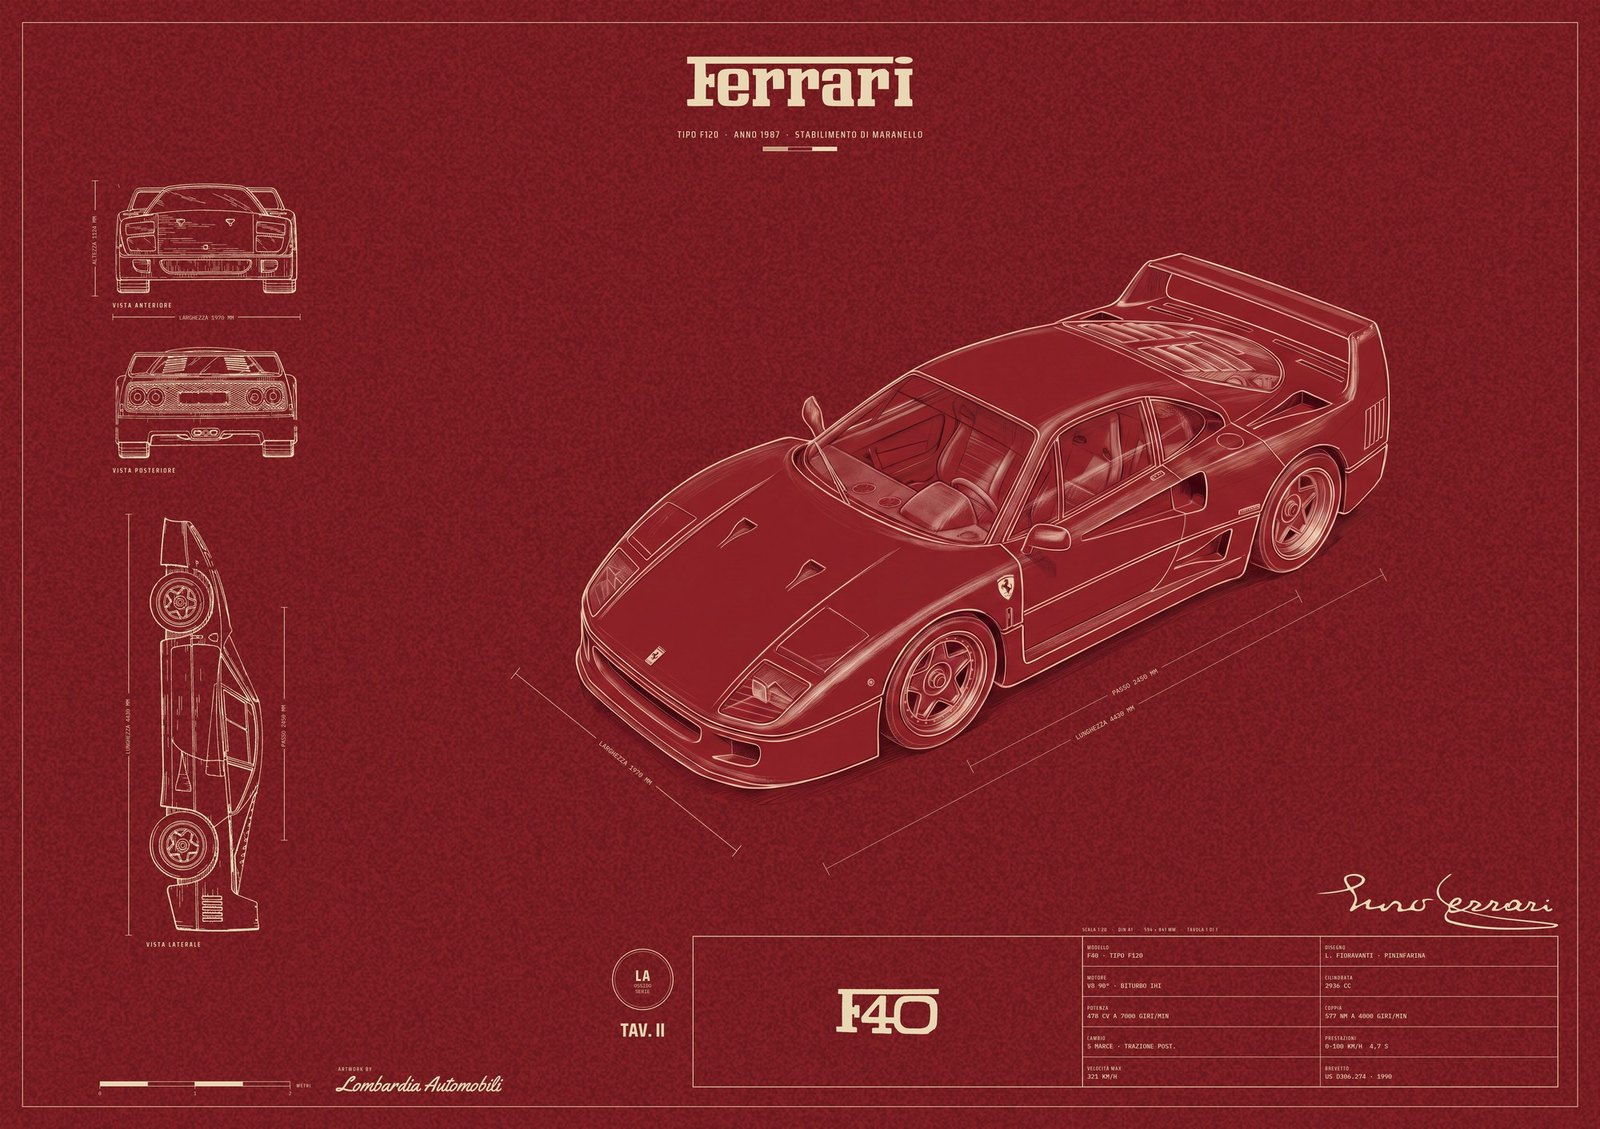
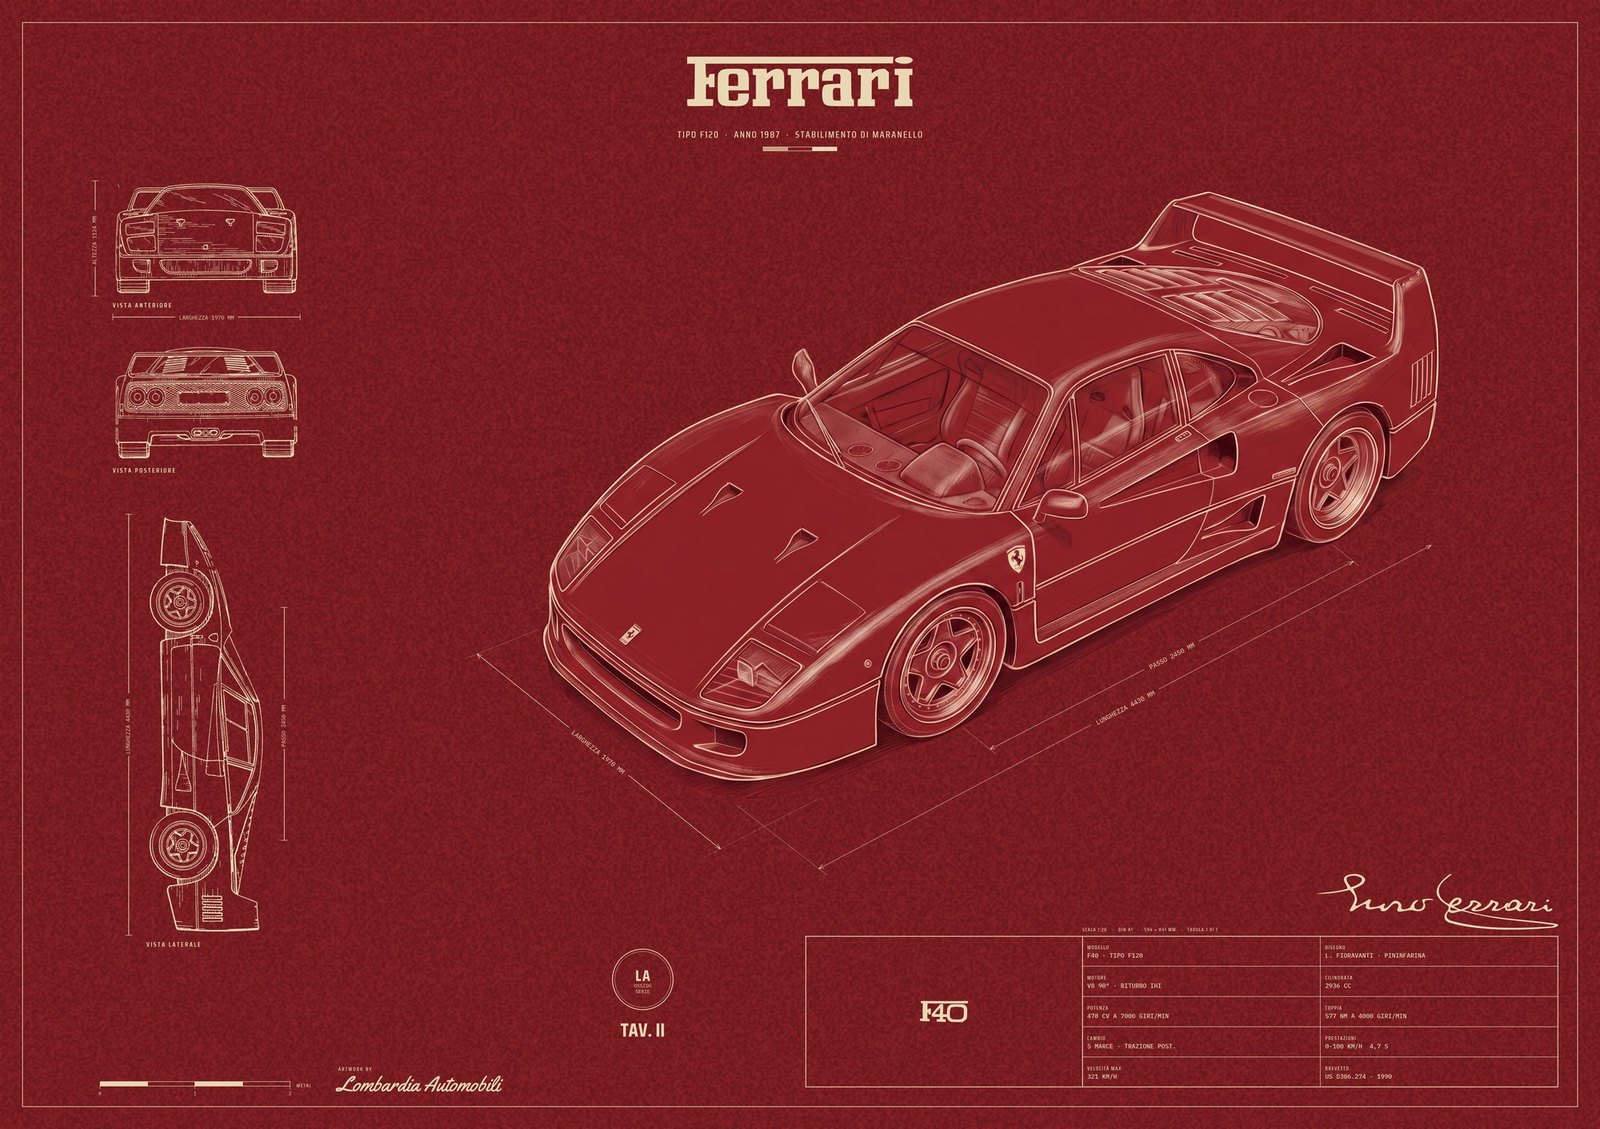
Publish the lot board

Changed region(s): [[0.3438, 0.155, 0.9062, 0.713], [0.5, 0.868, 0.5938, 0.93], [0.625, 0.651, 0.6562, 0.682]]

diff --git a/house/index.html b/house/index.html
@@ -20,7 +20,7 @@ a{color:#ffd28a}
 
 <h2 id="poster">The poster</h2>
 <p>Tap a sheet for the full 9933 x 7016 file. Only the car is generated; every line, figure, letter and rule is drawn. Checks under each sheet are measured, not eyeballed.</p>
-<figure><a href="img/f40-ossido-landscape-A1.jpg?v=1788458884"><img src="img/f40-ossido-landscape.jpg?v=1788458884" alt="f40-ossido-landscape"></a><figcaption>THE SHEET · Round 5 B (nano-banana-2-edit, 8 references): car regenerated alone on the ground, drawn apparatus; Ferrari wordmark centred, F40 lettering in the spec box, TAV and LA above it · <a href="img/f40-ossido-landscape-A1.jpg?v=1788458884">full A1 file</a></figcaption><table class="chk"><tr><td>size</td><td>9933 x 7016</td><td class="ok">pass</td></tr><tr><td>ratio</td><td>1.4158</td><td class="ok">pass</td></tr><tr><td>edge white % (t/b/l/r)</td><td>0.0 / 0.0 / 0.0 / 0.0</td><td class="ok">pass</td></tr><tr><td>edge mean rgb (top)</td><td>[120, 28, 33]</td><td class="ok">pass</td></tr><tr><td>car box vs source, % of sheet</td><td>x0 0.0 · y0 0.16 · x1 0.0 · y1 -0.17 · IoU 0.9934</td><td class="ok">pass</td></tr><tr><td>ground sampled from render</td><td>[139, 33, 39]</td><td class="ok">pass</td></tr><tr><td>library used</td><td>{&quot;wordmark&quot;: &quot;ferrari-wordmark-mask-4k.png&quot;, &quot;model_asset&quot;: &quot;f40-model-mask.png&quot;, &quot;model_h&quot;: &quot;253&quot;, &quot;_library_entry&quot;: &quot;Ferrari&quot;}</td><td class="ok">pass</td></tr></table></figure>
+<figure><a href="img/f40-ossido-landscape-A1.jpg?v=1788459533"><img src="img/f40-ossido-landscape.jpg?v=1788459533" alt="f40-ossido-landscape"></a><figcaption>THE SHEET · Round 5 B (nano-banana-2-edit, 8 references): car regenerated alone on the ground, drawn apparatus; Ferrari wordmark centred, F40 lettering in the spec box, TAV and LA above it · <a href="img/f40-ossido-landscape-A1.jpg?v=1788459533">full A1 file</a></figcaption><table class="chk"><tr><td>size</td><td>9933 x 7016</td><td class="ok">pass</td></tr><tr><td>ratio</td><td>1.4158</td><td class="ok">pass</td></tr><tr><td>edge white % (t/b/l/r)</td><td>0.0 / 0.0 / 0.0 / 0.0</td><td class="ok">pass</td></tr><tr><td>edge mean rgb (top)</td><td>[120, 28, 33]</td><td class="ok">pass</td></tr><tr><td>car box vs source, % of sheet</td><td>x0 0.0 · y0 0.19 · x1 -0.02 · y1 -0.19 · IoU 0.9928</td><td class="ok">pass</td></tr><tr><td>ground sampled from render</td><td>[139, 33, 39]</td><td class="ok">pass</td></tr><tr><td>library used</td><td>{&quot;wordmark&quot;: &quot;ferrari-wordmark-mask-4k.png&quot;, &quot;model_asset&quot;: &quot;f40-model-mask.png&quot;, &quot;model_h&quot;: &quot;253&quot;, &quot;_library_entry&quot;: &quot;Ferrari&quot;}</td><td class="ok">pass</td></tr></table></figure>
 
 <h2 id="cands">Car candidates</h2>
 <p>Car-only generations from the prompt extracted out of gen 362. IoU is the car box against gen 362's own car box; stray ink is anything the model drew outside the car.</p>
